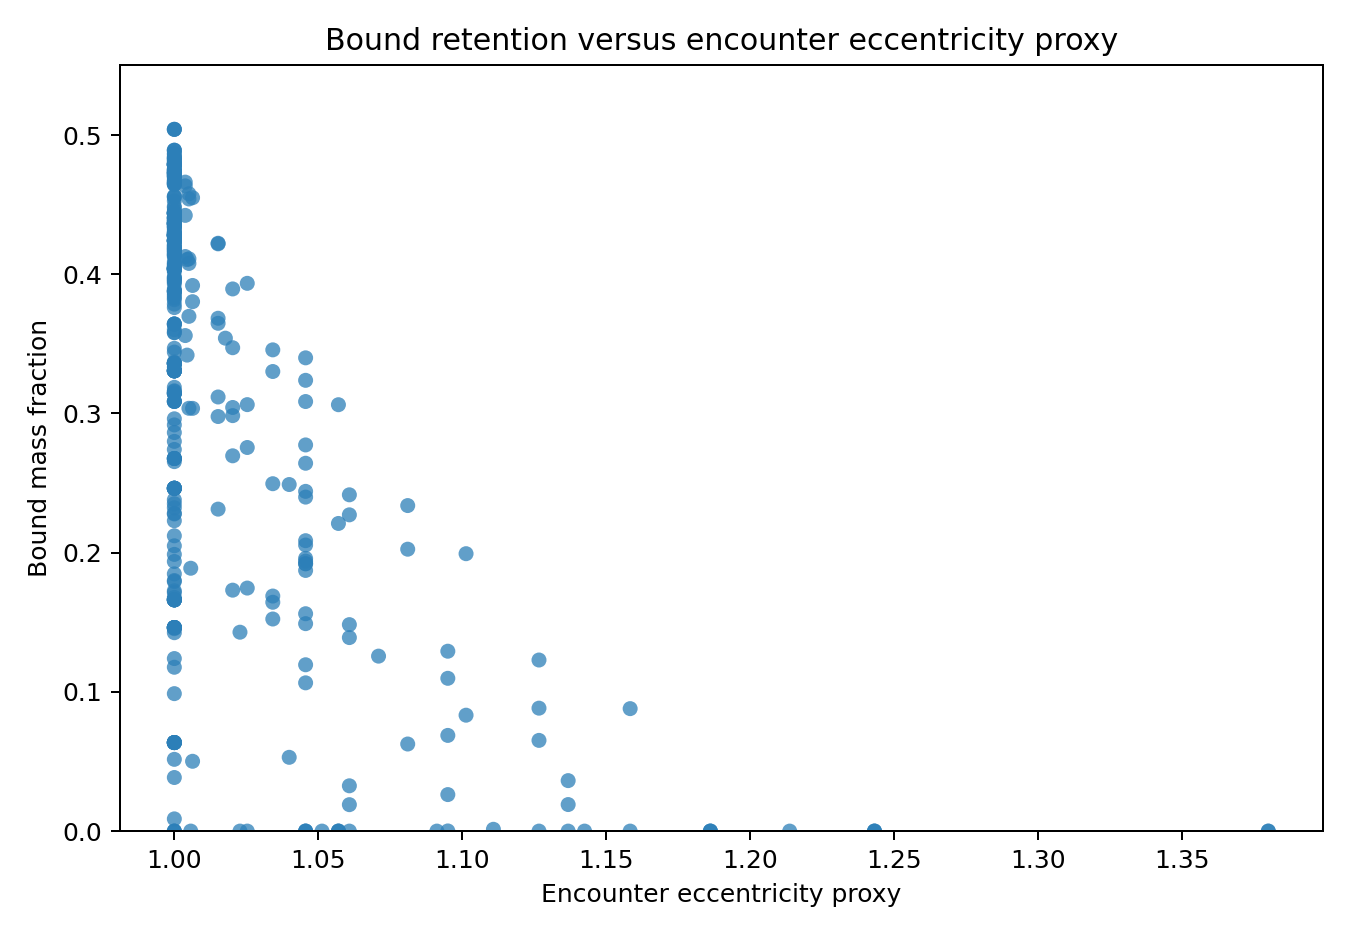
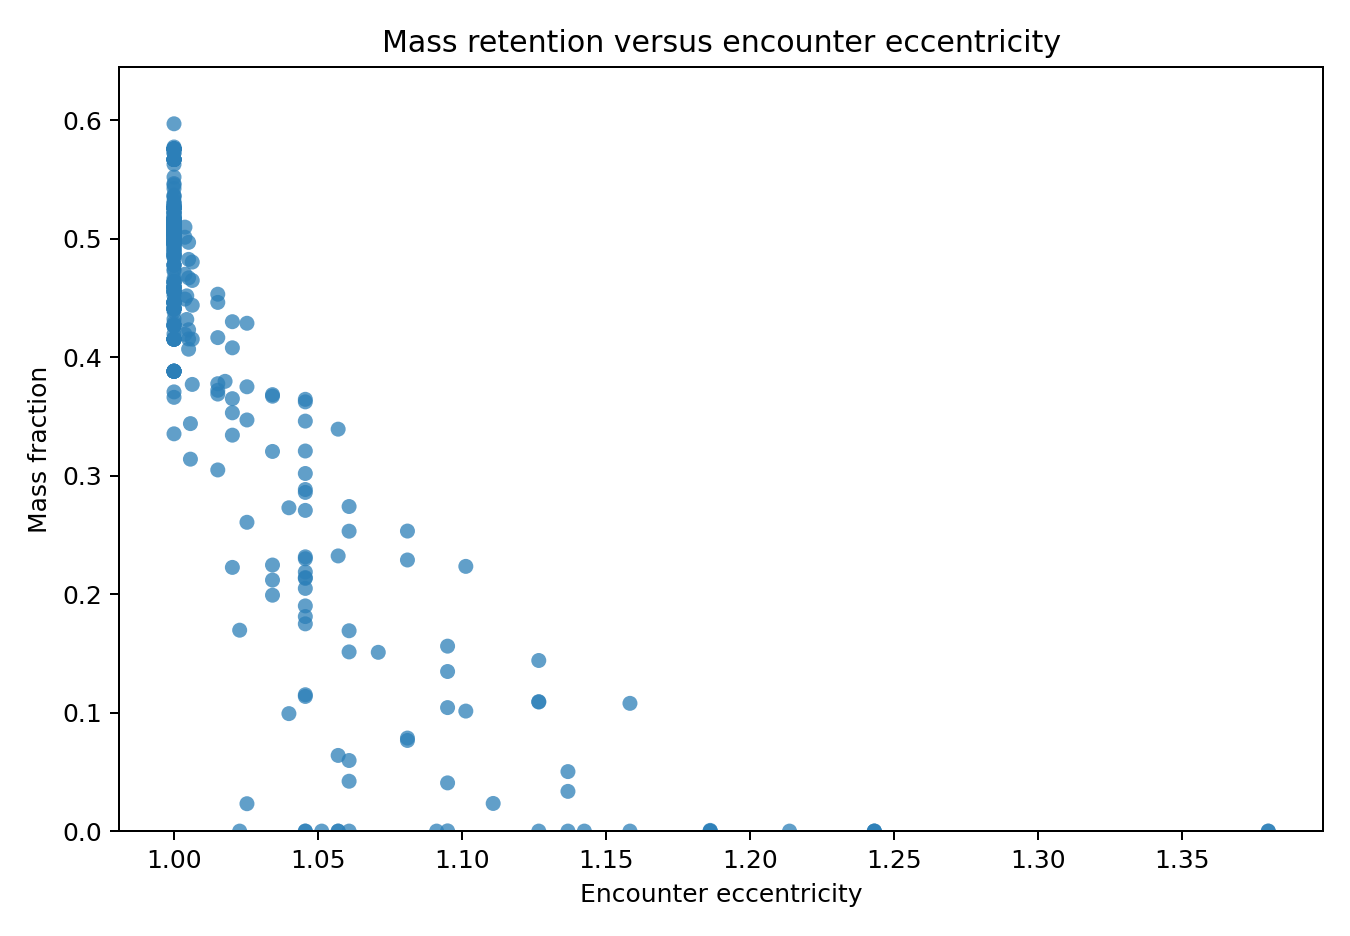
refractor: remove proxy word from plot

diff --git a/report-table-figure/figures/figure2_build.py b/report-table-figure/figures/figure2_build.py
@@ -307,11 +307,11 @@ def plot_scatter(run_frame: pd.DataFrame, plots_dir: Path) -> None:
         alpha=0.8,
         edgecolors="none",
     )
-    ax.set_xlabel("Encounter eccentricity proxy")
+    ax.set_xlabel("Encounter eccentricity")
     ax.set_ylabel("Dispersed mass fraction")
-    ax.set_title("Fragmentation severity versus encounter eccentricity proxy")
+    ax.set_title("Fragmentation severity versus encounter eccentricity")
     cbar = fig.colorbar(scatter, ax=ax)
-    cbar.set_label("Fragment count (min-particles proxy)")
+    cbar.set_label("Fragment count")
     fig.tight_layout()
     fig.savefig(plots_dir / "eccentricity_vs_dispersed_mass_fraction.png", dpi=180)
     plt.close(fig)
@@ -326,8 +326,8 @@ def plot_box(run_frame: pd.DataFrame, plots_dir: Path) -> None:
     groups = [(label, values) for label, values in groups if not values.empty]
     fig, ax = plt.subplots(figsize=(7.0, 5.0))
     ax.boxplot([values.to_numpy() for _, values in groups], tick_labels=[label for label, _ in groups], patch_artist=True)
-    ax.set_ylabel("Encounter eccentricity proxy")
-    ax.set_title("Eccentricity proxy distribution by fragmentation class")
+    ax.set_ylabel("Encounter eccentricity")
+    ax.set_title("Eccentricity distribution by fragmentation class")
     fig.tight_layout()
     fig.savefig(plots_dir / "eccentricity_boxplot_by_fragmentation_class.png", dpi=180)
     plt.close(fig)
@@ -355,9 +355,9 @@ def plot_bound_mass(run_frame: pd.DataFrame, plots_dir: Path) -> None:
     frame = run_frame.dropna(subset=["eccentricity_proxy", "bound_mass_fraction"]).copy()
     fig, ax = plt.subplots(figsize=(7.5, 5.2))
     ax.scatter(frame["eccentricity_proxy"], frame["bound_mass_fraction"], alpha=0.75, color="#2c7fb8", edgecolors="none")
-    ax.set_xlabel("Encounter eccentricity proxy")
+    ax.set_xlabel("Encounter eccentricity")
     ax.set_ylabel("Mass fraction")
-    ax.set_title("Mass retention versus encounter eccentricity proxy")
+    ax.set_title("Mass retention versus encounter eccentricity")
     ymax = BOUND_FRACTION_YMAX_OVERRIDE
     if ymax is None:
         ymax = max(0.30, float(frame["bound_mass_fraction"].max()) * 1.08)
